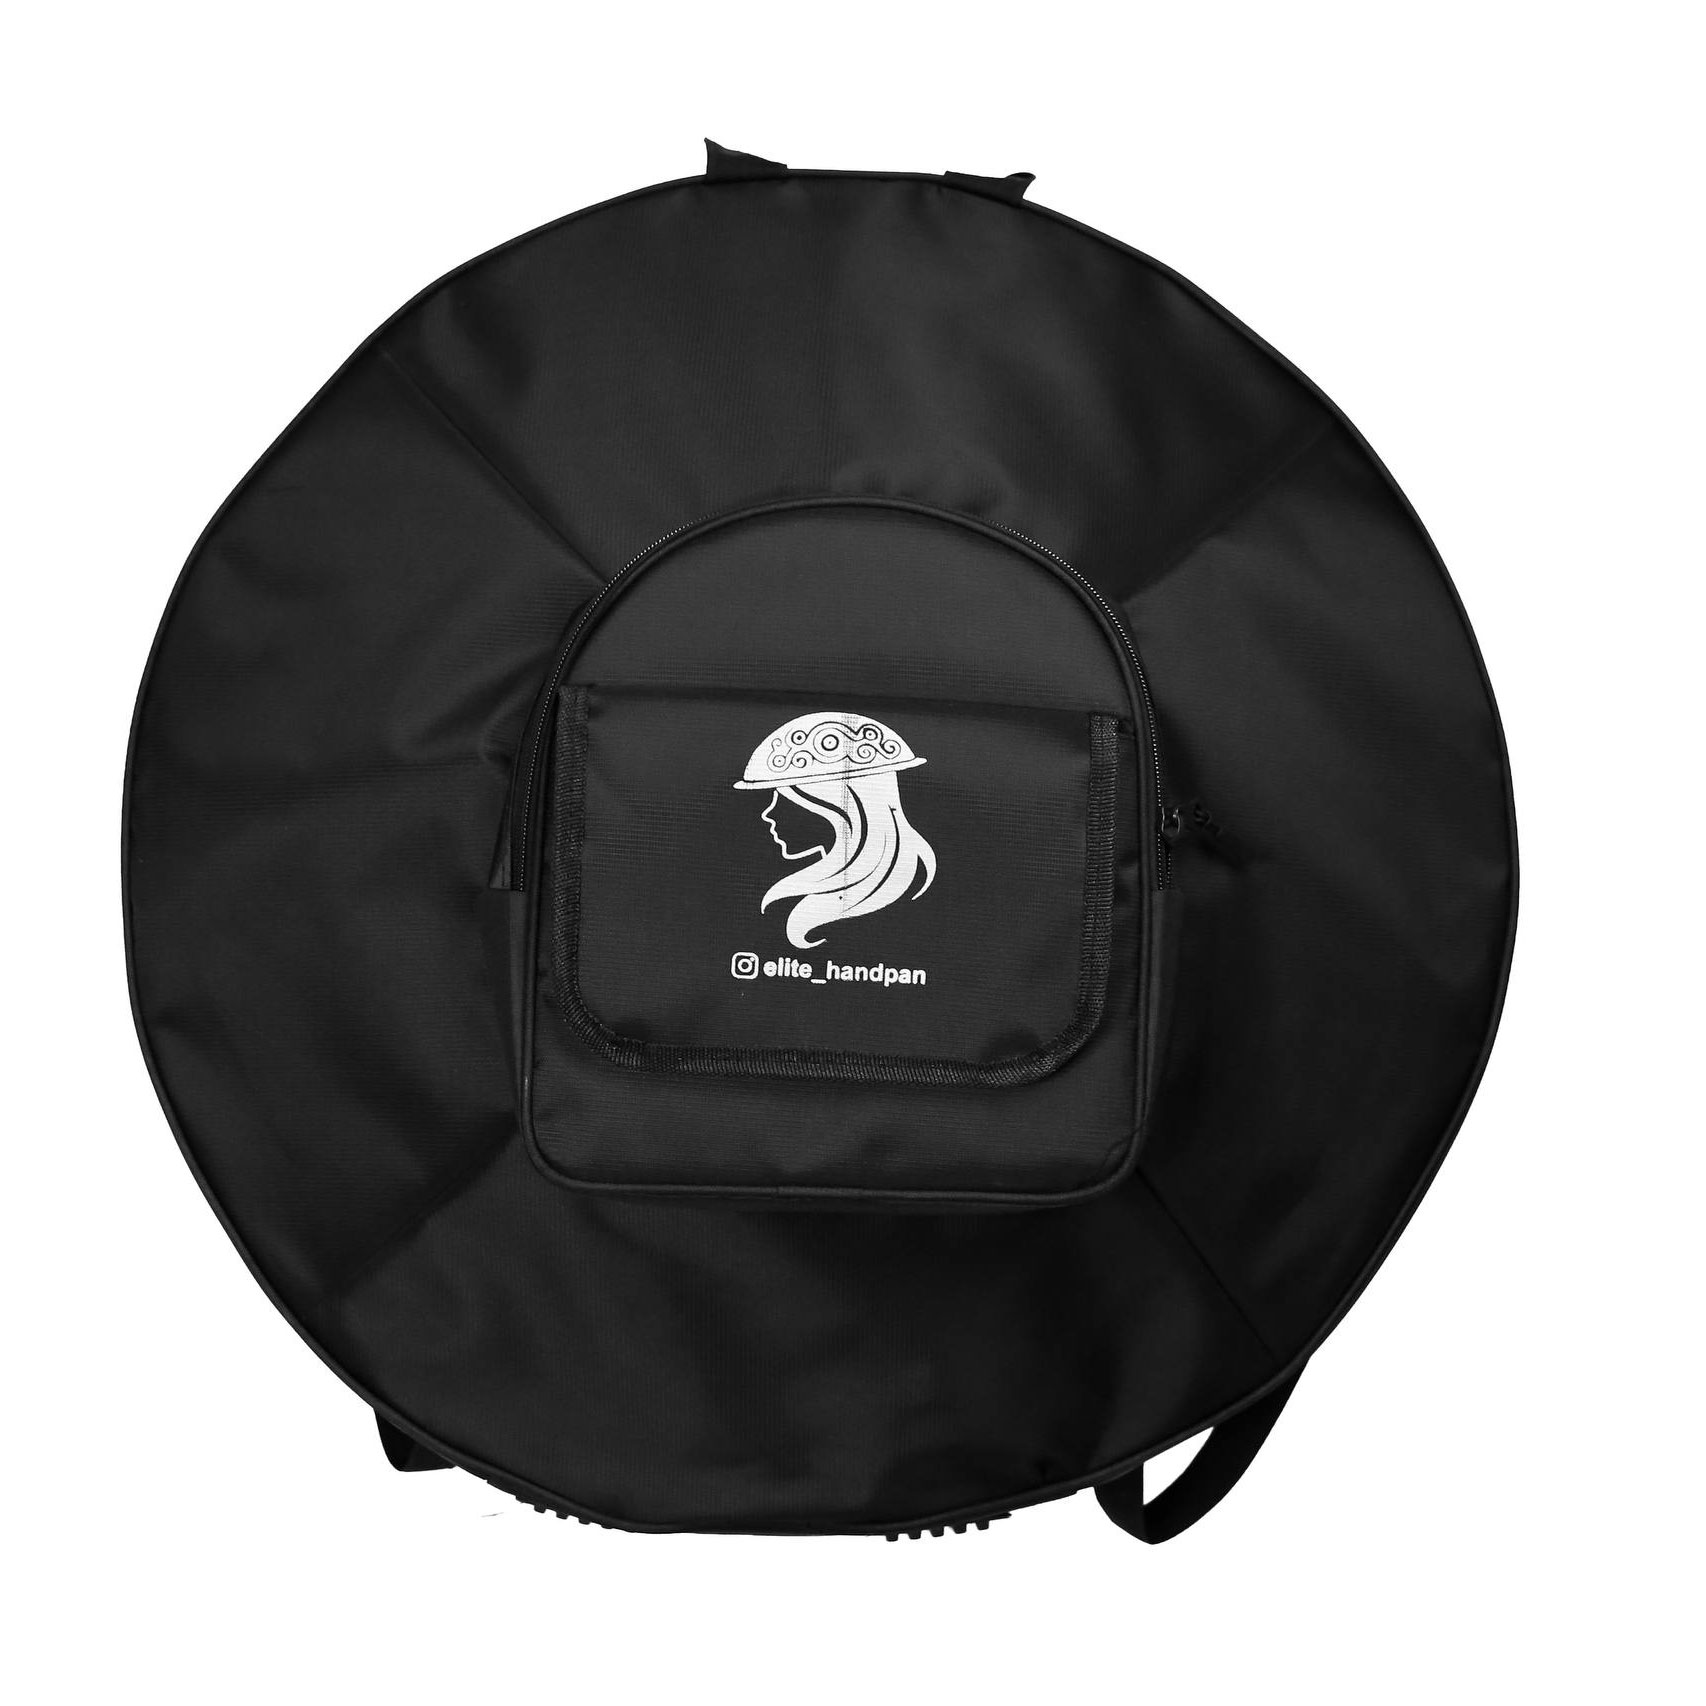
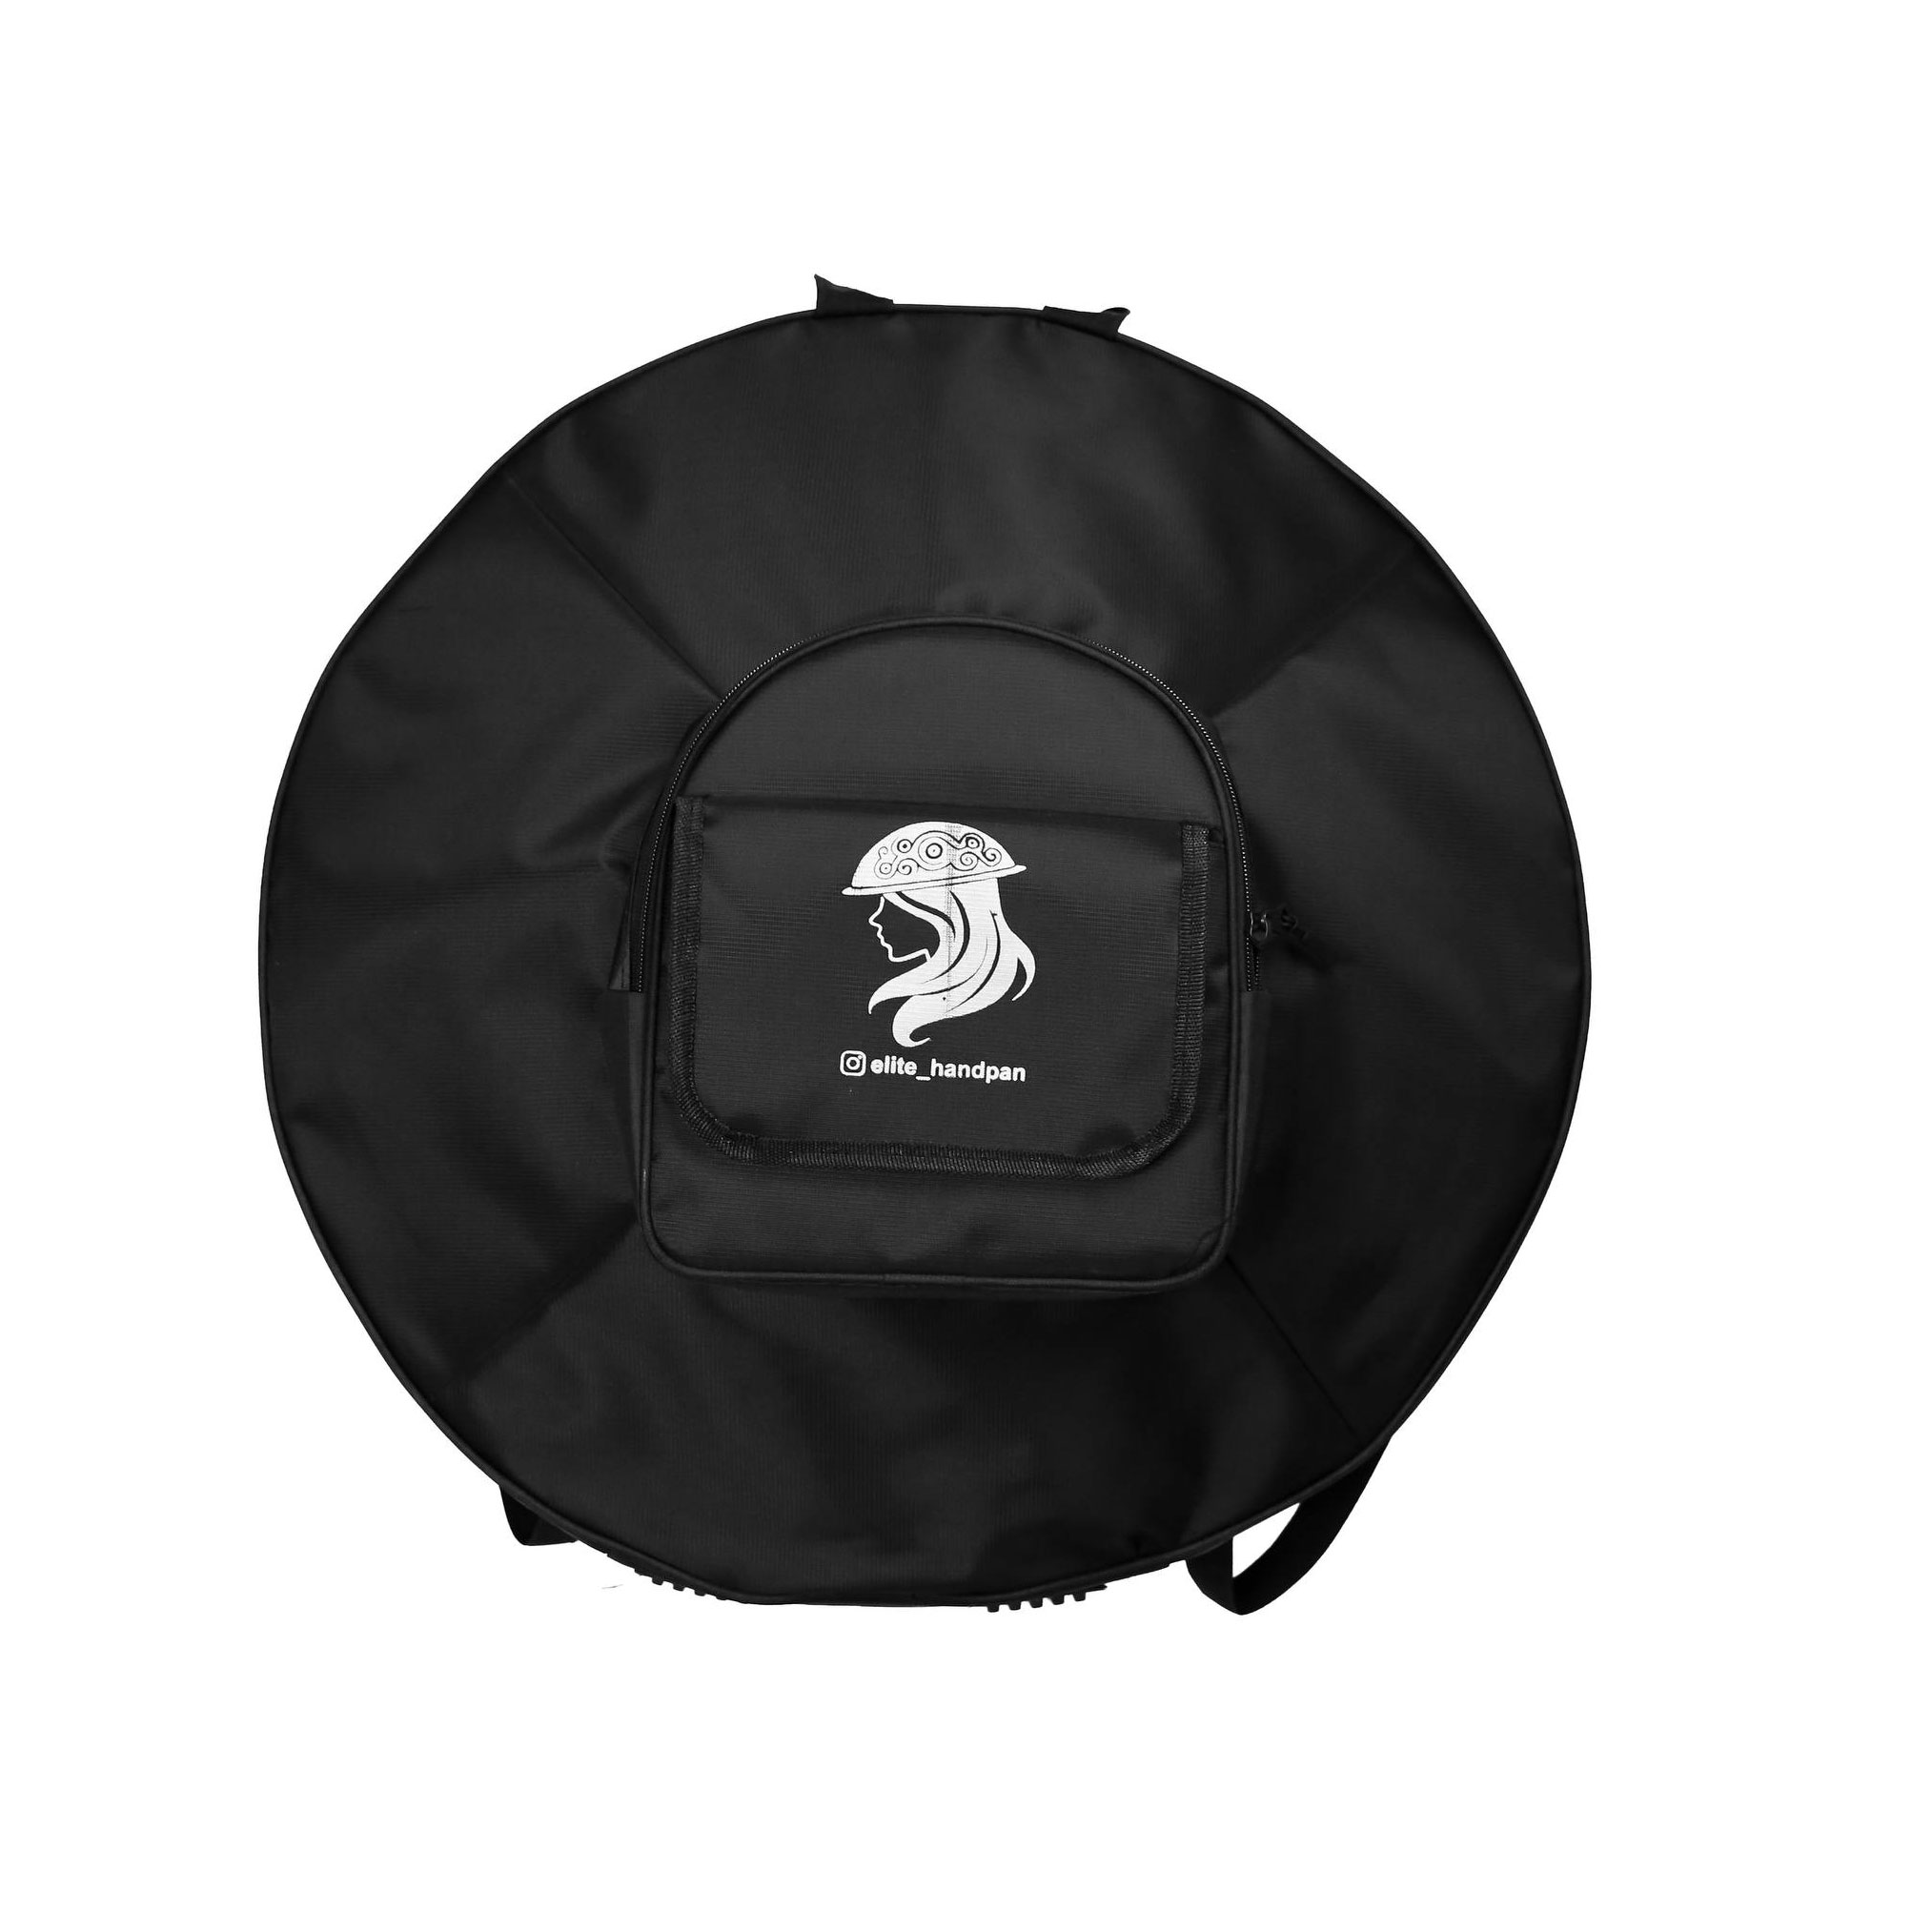
accessory page with 3 products

diff --git a/app/[locale]/shop/accessory/page.tsx b/app/[locale]/shop/accessory/page.tsx
@@ -3,6 +3,12 @@ import { getDictionary, hasLocale } from '../../../i18n'
 import Navbar from '../../../components/Navbar'
 import Footer from '../../../components/Footer'
 
+const products = [
+  { id: 1, name: 'Elite Case Pro',  description: 'Hard protective case',       price: '$120', image: '/images/shop/accessories/a1.jpg' },
+  { id: 2, name: 'Elite Soft Bag',  description: 'Lightweight carry bag',       price: '$80',  image: '/images/shop/accessories/a2.jpg' },
+  { id: 3, name: 'Elite Stand',     description: 'Foldable instrument stand',   price: '$65',  image: '/images/shop/accessories/a3.jpg' },
+]
+
 export default async function ShopAccessoryPage({
   params,
 }: {
@@ -16,25 +22,63 @@ export default async function ShopAccessoryPage({
     <>
       <Navbar dict={dict} locale={locale} />
 
-      <main className="min-h-screen bg-white flex flex-col items-center justify-center px-8 text-center">
-        <p
-          className="text-4xl text-[#C9A84C] mb-6 select-none"
-          aria-hidden="true"
-        >
-          ◉
-        </p>
-        <h1
-          className="text-4xl md:text-5xl font-light text-[#111111] mb-4"
-          style={{ fontFamily: 'var(--font-cormorant)' }}
-        >
-          Accessories Coming Soon
-        </h1>
-        <p
-          className="text-gray-500 text-base"
-          style={{ fontFamily: 'var(--font-inter)' }}
-        >
-          We&apos;re preparing something special.
-        </p>
+      <main className="min-h-screen bg-white pt-32 pb-24 px-8">
+        <div className="max-w-6xl mx-auto">
+          {/* Heading */}
+          <div className="mb-16">
+            <p
+              className="text-[#C9A84C] text-xs tracking-[0.4em] uppercase mb-4"
+              style={{ fontFamily: 'var(--font-inter)' }}
+            >
+              Collection
+            </p>
+            <h1
+              className="text-5xl md:text-6xl font-light text-[#111111]"
+              style={{ fontFamily: 'var(--font-cormorant)' }}
+            >
+              Accessories
+            </h1>
+            <div className="mt-6 h-px w-16 bg-[#C9A84C] opacity-60" />
+          </div>
+
+          {/* Product grid */}
+          <div className="grid grid-cols-1 md:grid-cols-2 lg:grid-cols-3 gap-6">
+            {products.map((product) => (
+              <div
+                key={product.id}
+                className="group bg-white border border-gray-200 hover:border-[#C9A84C]/60 transition-all duration-300 rounded-[4px] overflow-hidden cursor-pointer p-6"
+              >
+                <div className="aspect-square bg-[#f5f5f5] flex items-center justify-center rounded-sm overflow-hidden mb-5 p-4">
+                  <img
+                    src={product.image}
+                    alt={product.name}
+                    className="w-full h-full object-contain mix-blend-multiply"
+                  />
+                </div>
+                <h3
+                  className="text-lg md:text-xl text-[#111111] font-semibold mb-1"
+                  style={{ fontFamily: 'var(--font-cormorant)' }}
+                >
+                  {product.name}
+                </h3>
+                <p
+                  className="text-gray-500 text-xs tracking-wider mb-4"
+                  style={{ fontFamily: 'var(--font-inter)' }}
+                >
+                  {product.description}
+                </p>
+                <div className="flex flex-col gap-3 sm:flex-row sm:items-center sm:justify-between">
+                  <span className="text-[#C9A84C] text-sm font-medium">
+                    {product.price}
+                  </span>
+                  <button className="text-xs tracking-[0.2em] text-gray-400 hover:text-[#C9A84C] transition-colors uppercase border border-gray-200 hover:border-[#C9A84C]/60 px-3 py-1.5 rounded-[2px] self-start sm:self-auto">
+                    {dict.products.cta}
+                  </button>
+                </div>
+              </div>
+            ))}
+          </div>
+        </div>
       </main>
 
       <Footer />